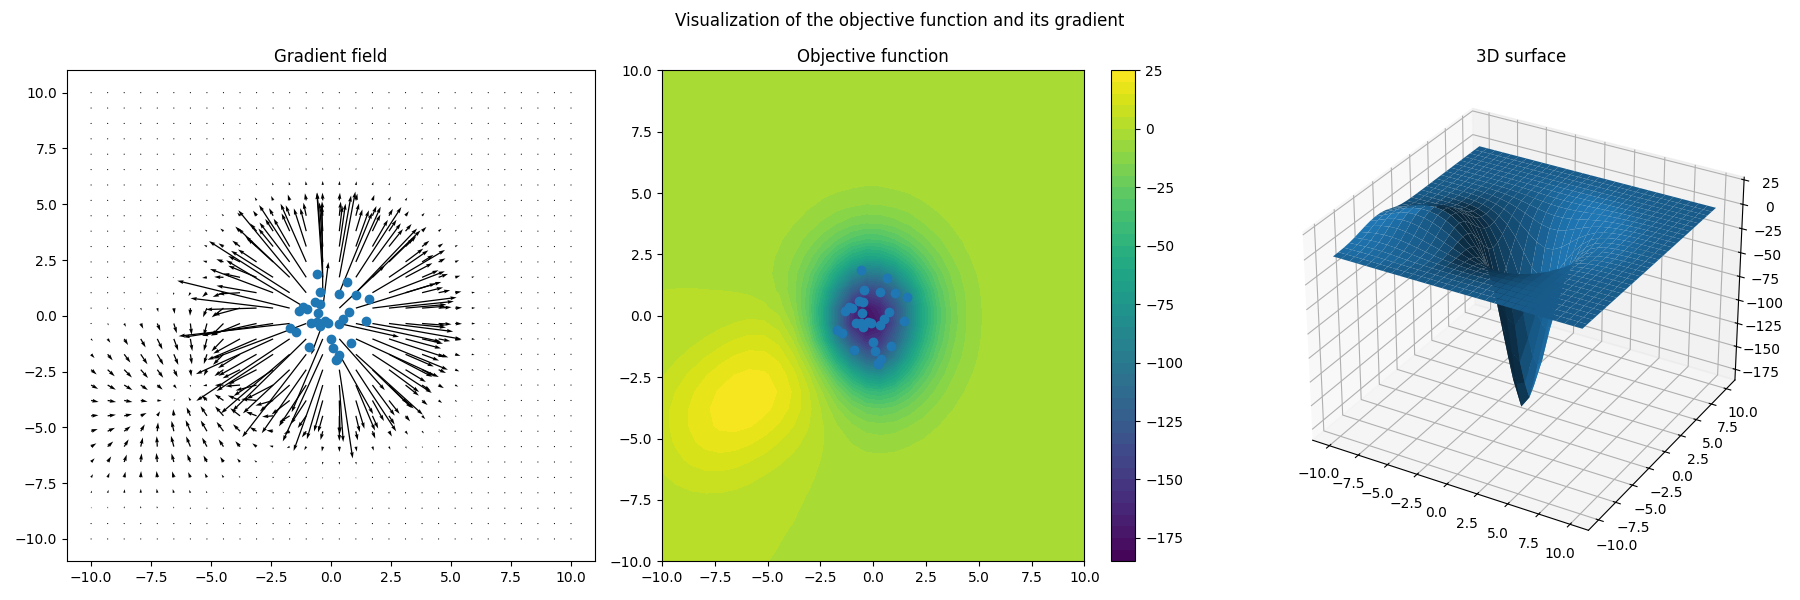
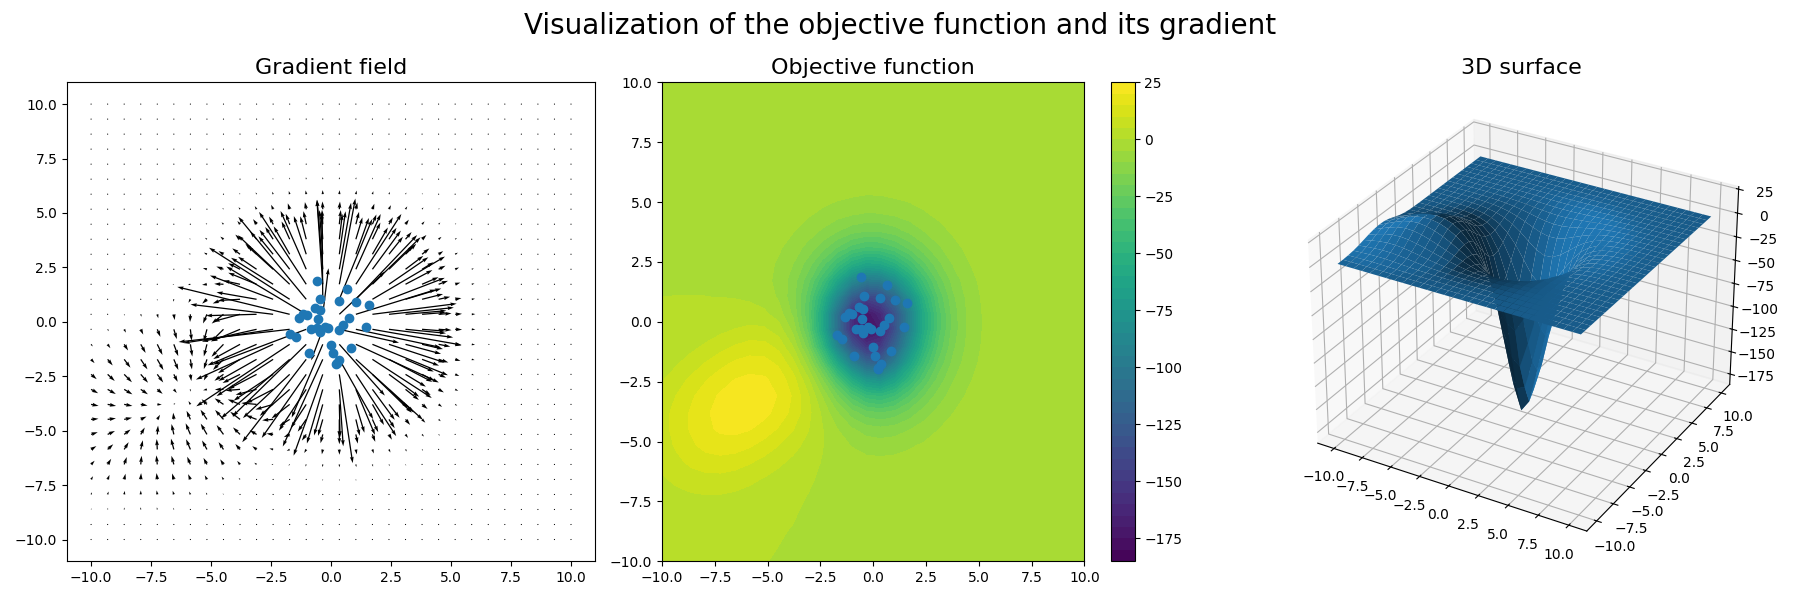
ref: increase titles font

diff --git a/vizualization.py b/vizualization.py
@@ -79,19 +79,19 @@ fig = plt.figure(figsize=(18, 6))
 ax1 = fig.add_subplot(1, 3, 1)
 ax1.quiver(X, Y, U, V)
 ax1.scatter(points[:,0], points[:,1])
-ax1.set_title("Gradient field")
+ax1.set_title("Gradient field", fontsize=16)
 
 ax2 = fig.add_subplot(1, 3, 2)
 contour = ax2.contourf(X, Y, Z, levels=50)
 fig.colorbar(contour, ax=ax2)
 ax2.scatter(points[:,0], points[:,1])
-ax2.set_title("Objective function")
+ax2.set_title("Objective function", fontsize=16)
 
 ax3 = fig.add_subplot(1, 3, 3, projection='3d')
 ax3.plot_surface(X, Y, Z)
-ax3.set_title("3D surface")
+ax3.set_title("3D surface", fontsize=16)
 
-plt.suptitle("Visualization of the objective function and its gradient")
+plt.suptitle("Visualization of the objective function and its gradient", fontsize=20)
 plt.tight_layout()
 plt.savefig("gradient_visualization.png")
 plt.show()
